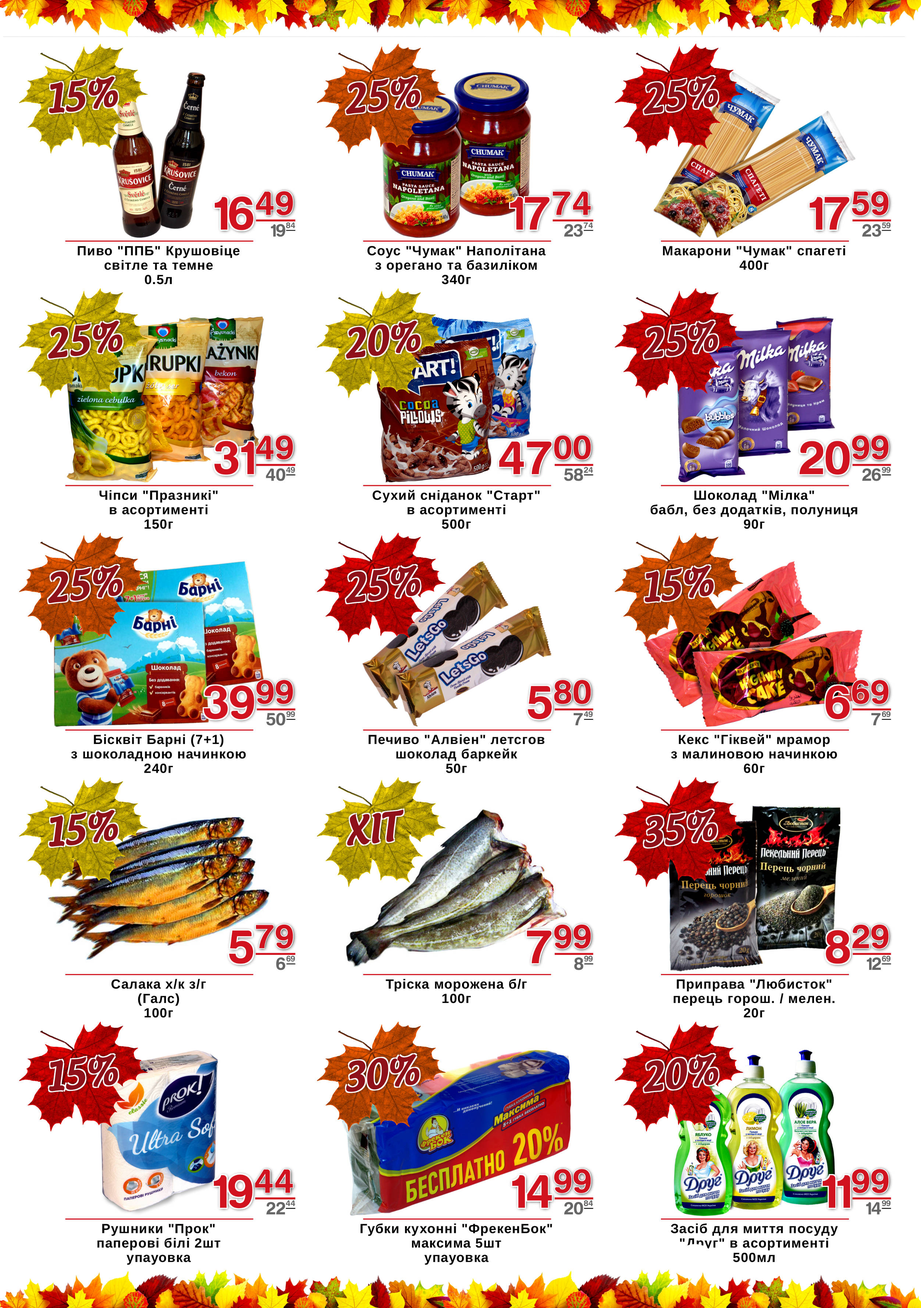
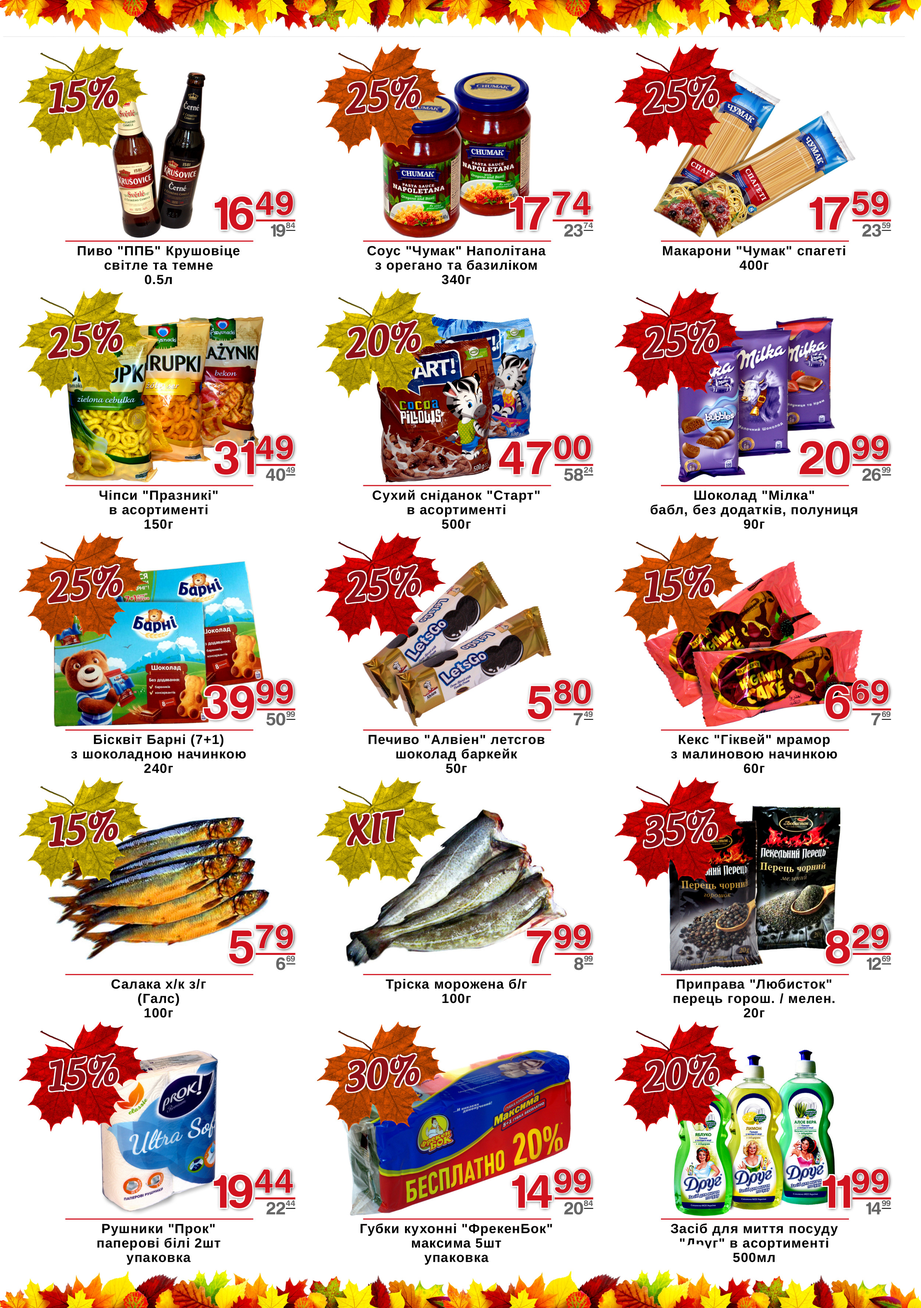
fix  buklet

Changed region(s): [[0.8099, 0.843, 0.8411, 0.9055], [0.7476, 0.843, 0.7788, 0.9055], [0.8722, 0.8743, 0.9034, 0.9055]]

diff --git a/grand/buklet/base4.js b/grand/buklet/base4.js
@@ -330,7 +330,7 @@ let base = [
     color: "leaf",
     size: "1",
     pic: "13",
-    desc: 'Рушники "Прок"$паперові білі 2шт$упауовка',                            	
+    desc: 'Рушники "Прок"$паперові білі 2шт$упаковка',                            	
     priceO: "2244",	
     priceN: "1944",	
     disc: "15%"
@@ -339,7 +339,7 @@ let base = [
     color: "leaf2",
     size: "1",
     pic: "11",
-    desc: 'Губки кухонні "ФрекенБок"$максима 5шт$упауовка',                       	
+    desc: 'Губки кухонні "ФрекенБок"$максима 5шт$упаковка',                       	
     priceO: "2084",	
     priceN: "1499",	
     disc: "30%"
